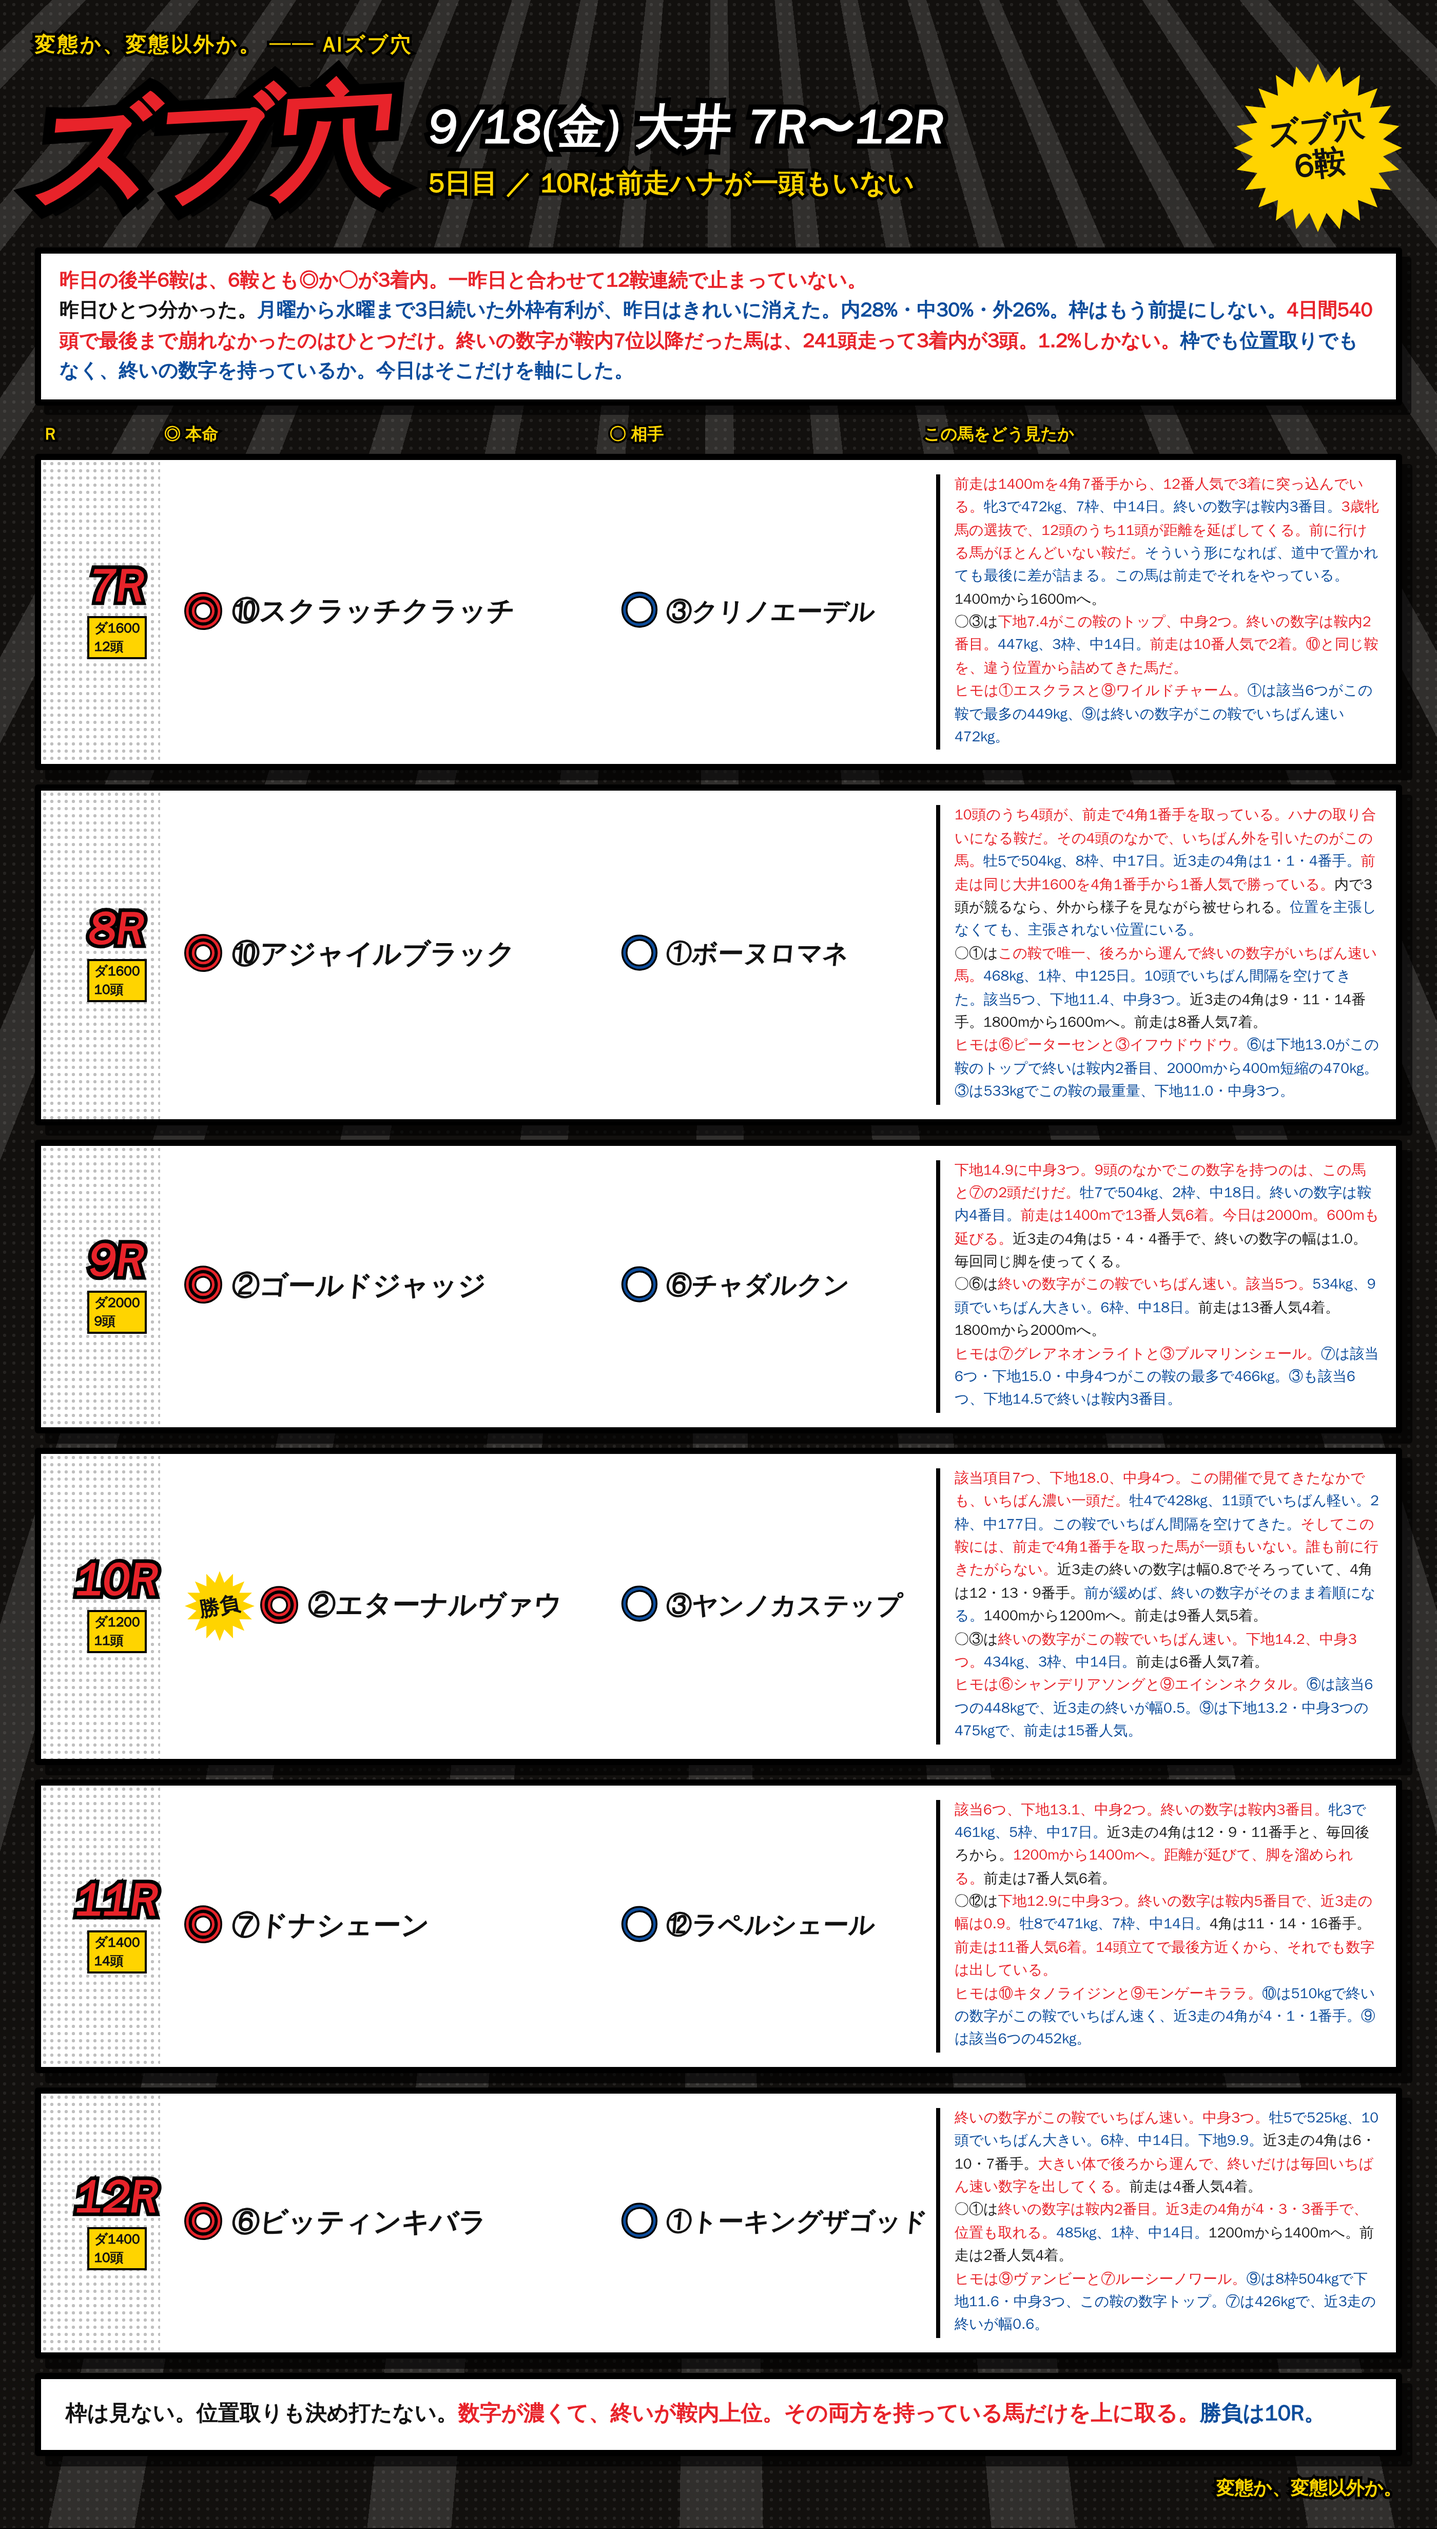
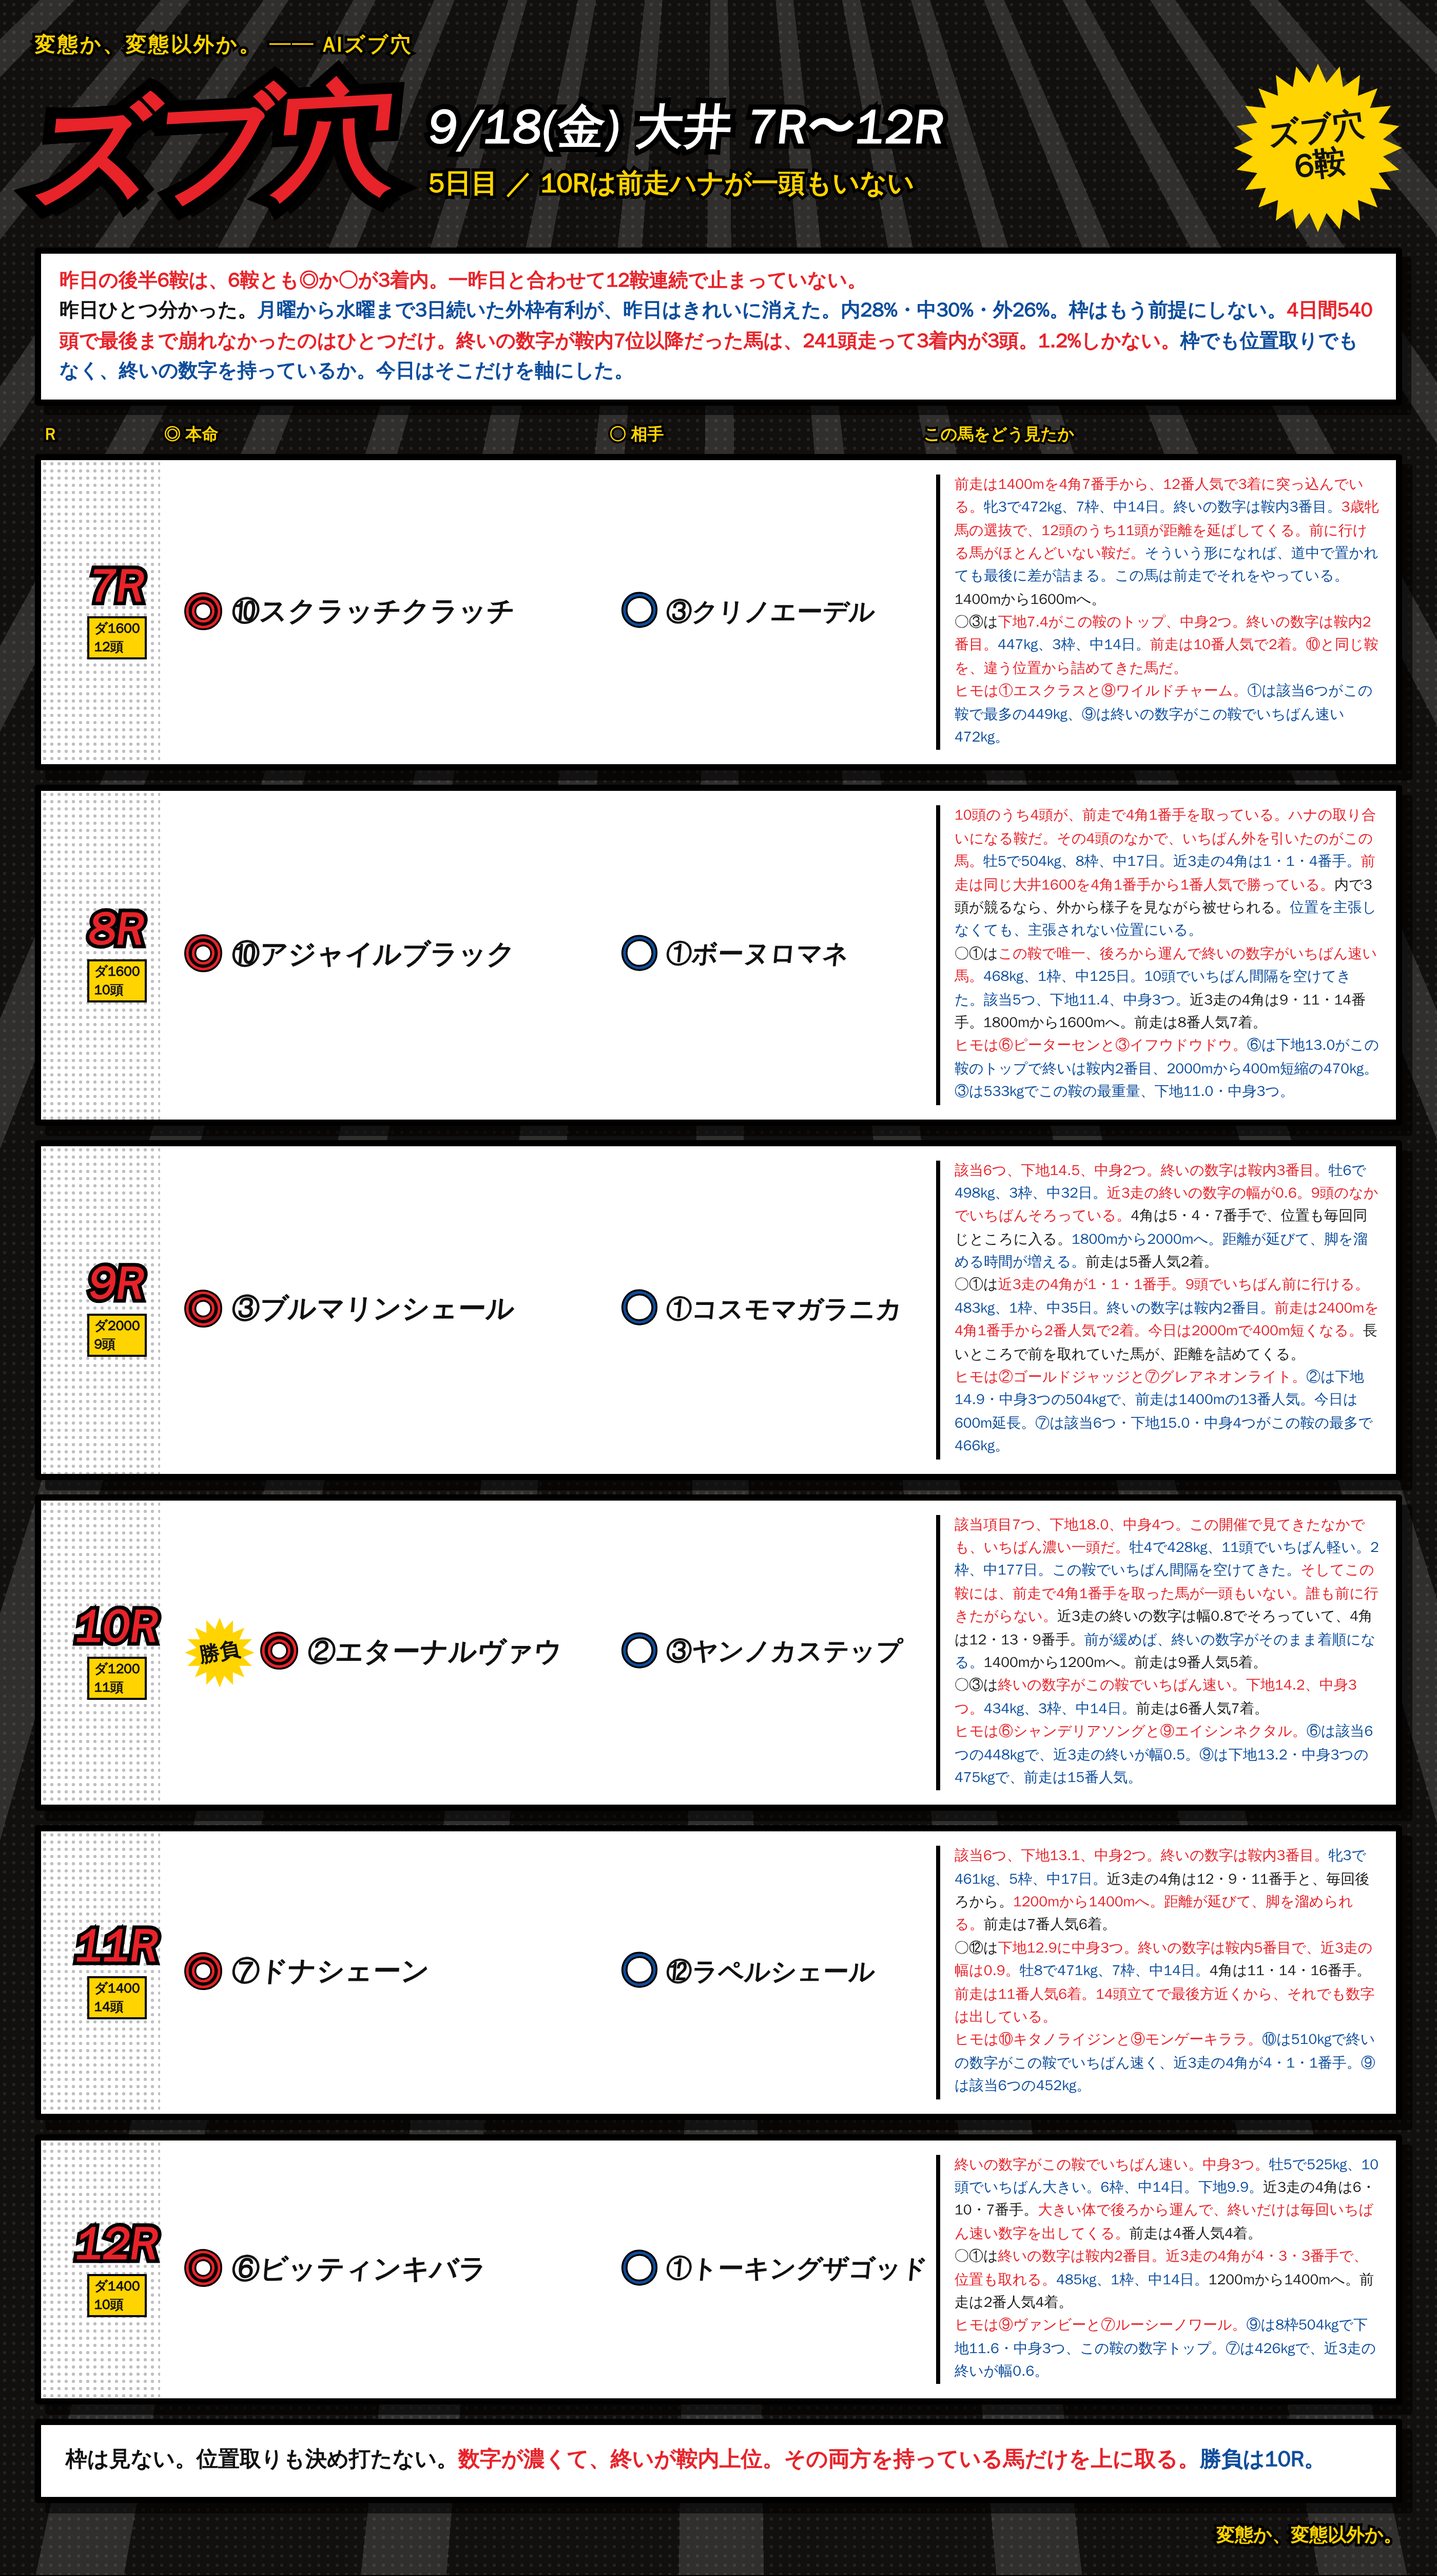
9Rを◎③ブルマリンシェール ○①コスモマガラニカに変更
ヒモを②ゴールドジャッジ・⑦グレアネオンライトに。

Claude-Session: https://claude.ai/code/session_01RoHscZkr96FNaxQWvUqgEw

diff --git a/notes/live/2026-09-18/oi_7_12.html b/notes/live/2026-09-18/oi_7_12.html
@@ -83,7 +83,7 @@
 <div class="cols"><div class="cR">R</div><div class="cH">◎ 本命</div><div class="cA">○ 相手</div><div class="cM">この馬をどう見たか</div></div>
 <div class="row"><div class="corner"></div><div class="rN"><div class="n">7R</div><div class="d">ダ1600<br>12頭</div></div><div class="hm"><span class="mk">◎</span><span class="nm">⑩スクラッチクラッチ</span></div><div class="at"><span class="mk2">○</span><span class="nm2">③クリノエーデル</span></div><div class="memo"><b class="r">前走は1400mを4角7番手から、12番人気で3着に突っ込んでいる。</b><b>牝3で472kg、7枠、中14日。終いの数字は鞍内3番目。</b><b class="r">3歳牝馬の選抜で、12頭のうち11頭が距離を延ばしてくる。前に行ける馬がほとんどいない鞍だ。</b><b>そういう形になれば、道中で置かれても最後に差が詰まる。この馬は前走でそれをやっている。</b>1400mから1600mへ。<br>○③は<b class="r">下地7.4がこの鞍のトップ、中身2つ。終いの数字は鞍内2番目。</b><b>447kg、3枠、中14日。</b><b class="r">前走は10番人気で2着。⑩と同じ鞍を、違う位置から詰めてきた馬だ。</b><br><b class="r">ヒモは①エスクラスと⑨ワイルドチャーム。</b><b>①は該当6つがこの鞍で最多の449kg、⑨は終いの数字がこの鞍でいちばん速い472kg。</b></div></div>
 <div class="row"><div class="corner"></div><div class="rN"><div class="n">8R</div><div class="d">ダ1600<br>10頭</div></div><div class="hm"><span class="mk">◎</span><span class="nm">⑩アジャイルブラック</span></div><div class="at"><span class="mk2">○</span><span class="nm2">①ボーヌロマネ</span></div><div class="memo"><b class="r">10頭のうち4頭が、前走で4角1番手を取っている。ハナの取り合いになる鞍だ。</b><b class="r">その4頭のなかで、いちばん外を引いたのがこの馬。</b><b>牡5で504kg、8枠、中17日。近3走の4角は1・1・4番手。</b><b class="r">前走は同じ大井1600を4角1番手から1番人気で勝っている。</b>内で3頭が競るなら、外から様子を見ながら被せられる。<b>位置を主張しなくても、主張されない位置にいる。</b><br>○①は<b class="r">この鞍で唯一、後ろから運んで終いの数字がいちばん速い馬。</b><b>468kg、1枠、中125日。10頭でいちばん間隔を空けてきた。該当5つ、下地11.4、中身3つ。</b>近3走の4角は9・11・14番手。1800mから1600mへ。前走は8番人気7着。<br><b class="r">ヒモは⑥ピーターセンと③イフウドウドウ。</b><b>⑥は下地13.0がこの鞍のトップで終いは鞍内2番目、2000mから400m短縮の470kg。③は533kgでこの鞍の最重量、下地11.0・中身3つ。</b></div></div>
-<div class="row"><div class="corner"></div><div class="rN"><div class="n">9R</div><div class="d">ダ2000<br>9頭</div></div><div class="hm"><span class="mk">◎</span><span class="nm">②ゴールドジャッジ</span></div><div class="at"><span class="mk2">○</span><span class="nm2">⑥チャダルクン</span></div><div class="memo"><b class="r">下地14.9に中身3つ。9頭のなかでこの数字を持つのは、この馬と⑦の2頭だけだ。</b><b>牡7で504kg、2枠、中18日。終いの数字は鞍内4番目。</b><b class="r">前走は1400mで13番人気6着。今日は2000m。600mも延びる。</b>近3走の4角は5・4・4番手で、終いの数字の幅は1.0。毎回同じ脚を使ってくる。<br>○⑥は<b class="r">終いの数字がこの鞍でいちばん速い。該当5つ。</b><b>534kg、9頭でいちばん大きい。6枠、中18日。</b>前走は13番人気4着。1800mから2000mへ。<br><b class="r">ヒモは⑦グレアネオンライトと③ブルマリンシェール。</b><b>⑦は該当6つ・下地15.0・中身4つがこの鞍の最多で466kg。③も該当6つ、下地14.5で終いは鞍内3番目。</b></div></div>
+<div class="row"><div class="corner"></div><div class="rN"><div class="n">9R</div><div class="d">ダ2000<br>9頭</div></div><div class="hm"><span class="mk">◎</span><span class="nm">③ブルマリンシェール</span></div><div class="at"><span class="mk2">○</span><span class="nm2">①コスモマガラニカ</span></div><div class="memo"><b class="r">該当6つ、下地14.5、中身2つ。終いの数字は鞍内3番目。</b><b>牡6で498kg、3枠、中32日。</b><b class="r">近3走の終いの数字の幅が0.6。9頭のなかでいちばんそろっている。</b>4角は5・4・7番手で、位置も毎回同じところに入る。<b>1800mから2000mへ。距離が延びて、脚を溜める時間が増える。</b>前走は5番人気2着。<br>○①は<b class="r">近3走の4角が1・1・1番手。9頭でいちばん前に行ける。</b><b>483kg、1枠、中35日。終いの数字は鞍内2番目。</b><b class="r">前走は2400mを4角1番手から2番人気で2着。今日は2000mで400m短くなる。</b>長いところで前を取れていた馬が、距離を詰めてくる。<br><b class="r">ヒモは②ゴールドジャッジと⑦グレアネオンライト。</b><b>②は下地14.9・中身3つの504kgで、前走は1400mの13番人気。今日は600m延長。⑦は該当6つ・下地15.0・中身4つがこの鞍の最多で466kg。</b></div></div>
 <div class="row"><div class="corner"></div><div class="rN"><div class="n">10R</div><div class="d">ダ1200<br>11頭</div></div><div class="hm"><div class="sb"><span>勝負</span></div><span class="mk">◎</span><span class="nm">②エターナルヴァウ</span></div><div class="at"><span class="mk2">○</span><span class="nm2">③ヤンノカステップ</span></div><div class="memo"><b class="r">該当項目7つ、下地18.0、中身4つ。この開催で見てきたなかでも、いちばん濃い一頭だ。</b><b>牡4で428kg、11頭でいちばん軽い。2枠、中177日。この鞍でいちばん間隔を空けてきた。</b><b class="r">そしてこの鞍には、前走で4角1番手を取った馬が一頭もいない。誰も前に行きたがらない。</b>近3走の終いの数字は幅0.8でそろっていて、4角は12・13・9番手。<b>前が緩めば、終いの数字がそのまま着順になる。</b>1400mから1200mへ。前走は9番人気5着。<br>○③は<b class="r">終いの数字がこの鞍でいちばん速い。下地14.2、中身3つ。</b><b>434kg、3枠、中14日。</b>前走は6番人気7着。<br><b class="r">ヒモは⑥シャンデリアソングと⑨エイシンネクタル。</b><b>⑥は該当6つの448kgで、近3走の終いが幅0.5。⑨は下地13.2・中身3つの475kgで、前走は15番人気。</b></div></div>
 <div class="row"><div class="corner"></div><div class="rN"><div class="n">11R</div><div class="d">ダ1400<br>14頭</div></div><div class="hm"><span class="mk">◎</span><span class="nm">⑦ドナシェーン</span></div><div class="at"><span class="mk2">○</span><span class="nm2">⑫ラペルシェール</span></div><div class="memo"><b class="r">該当6つ、下地13.1、中身2つ。終いの数字は鞍内3番目。</b><b>牝3で461kg、5枠、中17日。</b>近3走の4角は12・9・11番手と、毎回後ろから。<b class="r">1200mから1400mへ。距離が延びて、脚を溜められる。</b>前走は7番人気6着。<br>○⑫は<b class="r">下地12.9に中身3つ。終いの数字は鞍内5番目で、近3走の幅は0.9。</b><b>牡8で471kg、7枠、中14日。</b>4角は11・14・16番手。<b class="r">前走は11番人気6着。14頭立てで最後方近くから、それでも数字は出している。</b><br><b class="r">ヒモは⑩キタノライジンと⑨モンゲーキララ。</b><b>⑩は510kgで終いの数字がこの鞍でいちばん速く、近3走の4角が4・1・1番手。⑨は該当6つの452kg。</b></div></div>
 <div class="row"><div class="corner"></div><div class="rN"><div class="n">12R</div><div class="d">ダ1400<br>10頭</div></div><div class="hm"><span class="mk">◎</span><span class="nm">⑥ビッティンキバラ</span></div><div class="at"><span class="mk2">○</span><span class="nm2">①トーキングザゴッド</span></div><div class="memo"><b class="r">終いの数字がこの鞍でいちばん速い。中身3つ。</b><b>牡5で525kg、10頭でいちばん大きい。6枠、中14日。下地9.9。</b>近3走の4角は6・10・7番手。<b class="r">大きい体で後ろから運んで、終いだけは毎回いちばん速い数字を出してくる。</b>前走は4番人気4着。<br>○①は<b class="r">終いの数字は鞍内2番目。近3走の4角が4・3・3番手で、位置も取れる。</b><b>485kg、1枠、中14日。</b>1200mから1400mへ。前走は2番人気4着。<br><b class="r">ヒモは⑨ヴァンビーと⑦ルーシーノワール。</b><b>⑨は8枠504kgで下地11.6・中身3つ、この鞍の数字トップ。⑦は426kgで、近3走の終いが幅0.6。</b></div></div>
